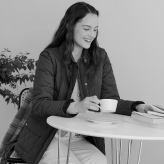
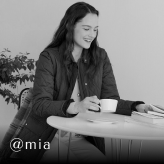
MainScreenFollowUsSection was finished

Changed region(s): [[0.0, 0.7622, 1.0, 1.0]]

diff --git a/lib/screens/main_screen/view/main_screen_view.dart b/lib/screens/main_screen/view/main_screen_view.dart
@@ -118,46 +118,7 @@ class MainScreenView extends StatelessWidget {
               padding: EdgeInsets.only(bottom: sizeCalculator(size.height, 2.08)),
               child: MainScreenOpenFashionSection(size: size, colors: colors),
             ),
-            SizedBox(
-              height: sizeCalculator(size.height, 59.97),
-              width: size.width,
-              child: Column(
-                crossAxisAlignment: CrossAxisAlignment.center,
-                children: [
-                  Padding(
-                    padding: EdgeInsets.only(
-                        top: sizeCalculator(size.height, 2.00), bottom: sizeCalculator(size.height, 0.43)),
-                    child: SizedBox(
-                      height: sizeCalculator(size.height, 5.01),
-                      width: sizeCalculator(size.width, 38.93),
-                      child: const FittedBox(fit: BoxFit.fitWidth, child: Text("FOLLOW US")),
-                    ),
-                  ),
-                  Padding(
-                    padding: EdgeInsets.only(bottom: sizeCalculator(size.height, 0.30)),
-                    child: SizedBox(
-                      height: sizeCalculator(size.height, 2.64),
-                      width: sizeCalculator(size.height, 5.62),
-                      child: const AppLogos(
-                        logo: "instagram",
-                      ),
-                    ),
-                  ),
-                  //Resim stack alanını kaplamıyor
-                  SizedBox(
-                      height: sizeCalculator(size.height, 47.30),
-                      width: sizeCalculator(size.width, 100),
-                      child: GridView.count(
-                        crossAxisCount: 2,
-                        children: const [
-                          Stack(
-                            children: [AppBanner(banner: "mia")],
-                          )
-                        ],
-                      ))
-                ],
-              ),
-            ),
+            MainScreenFollowUsSection(size: size),
             Container(
               height: 100,
               width: 100,
@@ -169,3 +130,130 @@ class MainScreenView extends StatelessWidget {
     );
   }
 }
+
+class MainScreenFollowUsSection extends StatelessWidget {
+  const MainScreenFollowUsSection({
+    super.key,
+    required this.size,
+  });
+
+  final DeviceSize size;
+
+  @override
+  Widget build(BuildContext context) {
+    return SizedBox(
+      height: sizeCalculator(size.height, 59.97),
+      width: size.width,
+      child: Column(
+        crossAxisAlignment: CrossAxisAlignment.center,
+        children: [
+          Padding(
+            padding: EdgeInsets.only(top: sizeCalculator(size.height, 2.00), bottom: sizeCalculator(size.height, 0.43)),
+            child: SizedBox(
+              height: sizeCalculator(size.height, 5.01),
+              width: sizeCalculator(size.width, 38.93),
+              child: const FittedBox(fit: BoxFit.fitWidth, child: Text("FOLLOW US")),
+            ),
+          ),
+          Padding(
+            padding: EdgeInsets.only(bottom: sizeCalculator(size.height, 0.30)),
+            child: SizedBox(
+              height: sizeCalculator(size.height, 2.64),
+              width: sizeCalculator(size.height, 5.62),
+              child: const AppLogos(
+                logo: "instagram",
+              ),
+            ),
+          ),
+          Padding(
+            padding: EdgeInsets.symmetric(horizontal: sizeCalculator(size.width, 4.26)),
+            child: SizedBox(
+                height: sizeCalculator(size.height, 47.30),
+                width: sizeCalculator(size.width, 100),
+                child: Column(
+                  children: [
+                    Expanded(
+                      child: Row(
+                        children: [
+                          buildBanner("mia"),
+                          Padding(
+                            padding: EdgeInsets.only(left: sizeCalculator(size.width, 3.73)),
+                            child: buildBanner("jihyn"),
+                          ),
+                        ],
+                      ),
+                    ),
+                    Expanded(
+                      child: Row(
+                        children: [
+                          buildBanner("mia2"),
+                          Padding(
+                            padding: EdgeInsets.only(left: sizeCalculator(size.width, 3.73)),
+                            child: buildBanner("jihyn2"),
+                          ),
+                        ],
+                      ),
+                    )
+                  ],
+                )),
+          )
+        ],
+      ),
+    );
+  }
+
+  Widget buildBanner(String photo) {
+    return SizedBox(
+      height: sizeCalculator(size.height, 20.57),
+      width: sizeCalculator(size.width, 43.73),
+      child: Stack(
+        children: [
+          SizedBox(
+            height: sizeCalculator(size.height, 20.57),
+            width: sizeCalculator(size.width, 43.73),
+            child: FittedBox(fit: BoxFit.cover, child: AppBanner(banner: photo)),
+          ),
+        ],
+      ),
+    );
+  }
+}
+
+/*Widget buildBanner(String nickname, String photo) {
+    bool miaOrJihyn;
+
+    if (nickname == "mia") {
+      miaOrJihyn = true;
+    } else {
+      miaOrJihyn = false;
+    }
+
+    String text = miaOrJihyn ? "@mia" : "@_jihyn";
+
+    return SizedBox(
+      height: sizeCalculator(size.height, 20.57),
+      width: sizeCalculator(size.width, 43.73),
+      child: Stack(
+        children: [
+          SizedBox(
+            height: sizeCalculator(size.height, 20.57),
+            width: sizeCalculator(size.width, 43.73),
+            child: FittedBox(fit: BoxFit.cover, child: AppBanner(banner: photo)),
+          ),
+          Padding(
+            padding: EdgeInsets.only(top: sizeCalculator(size.height, 17.06), left: sizeCalculator(size.width, 2.39)),
+            child: SizedBox(
+              height: sizeCalculator(size.height, 2.00),
+              width: miaOrJihyn ? sizeCalculator(size.width, 11.19) : sizeCalculator(size.width, 16.79),
+              child: FittedBox(
+                  fit: BoxFit.fitWidth,
+                  child: Text(
+                    text,
+                    style: const TextStyle(color: Colors.white),
+                  )),
+            ),
+          )
+        ],
+      ),
+    );
+  } */
